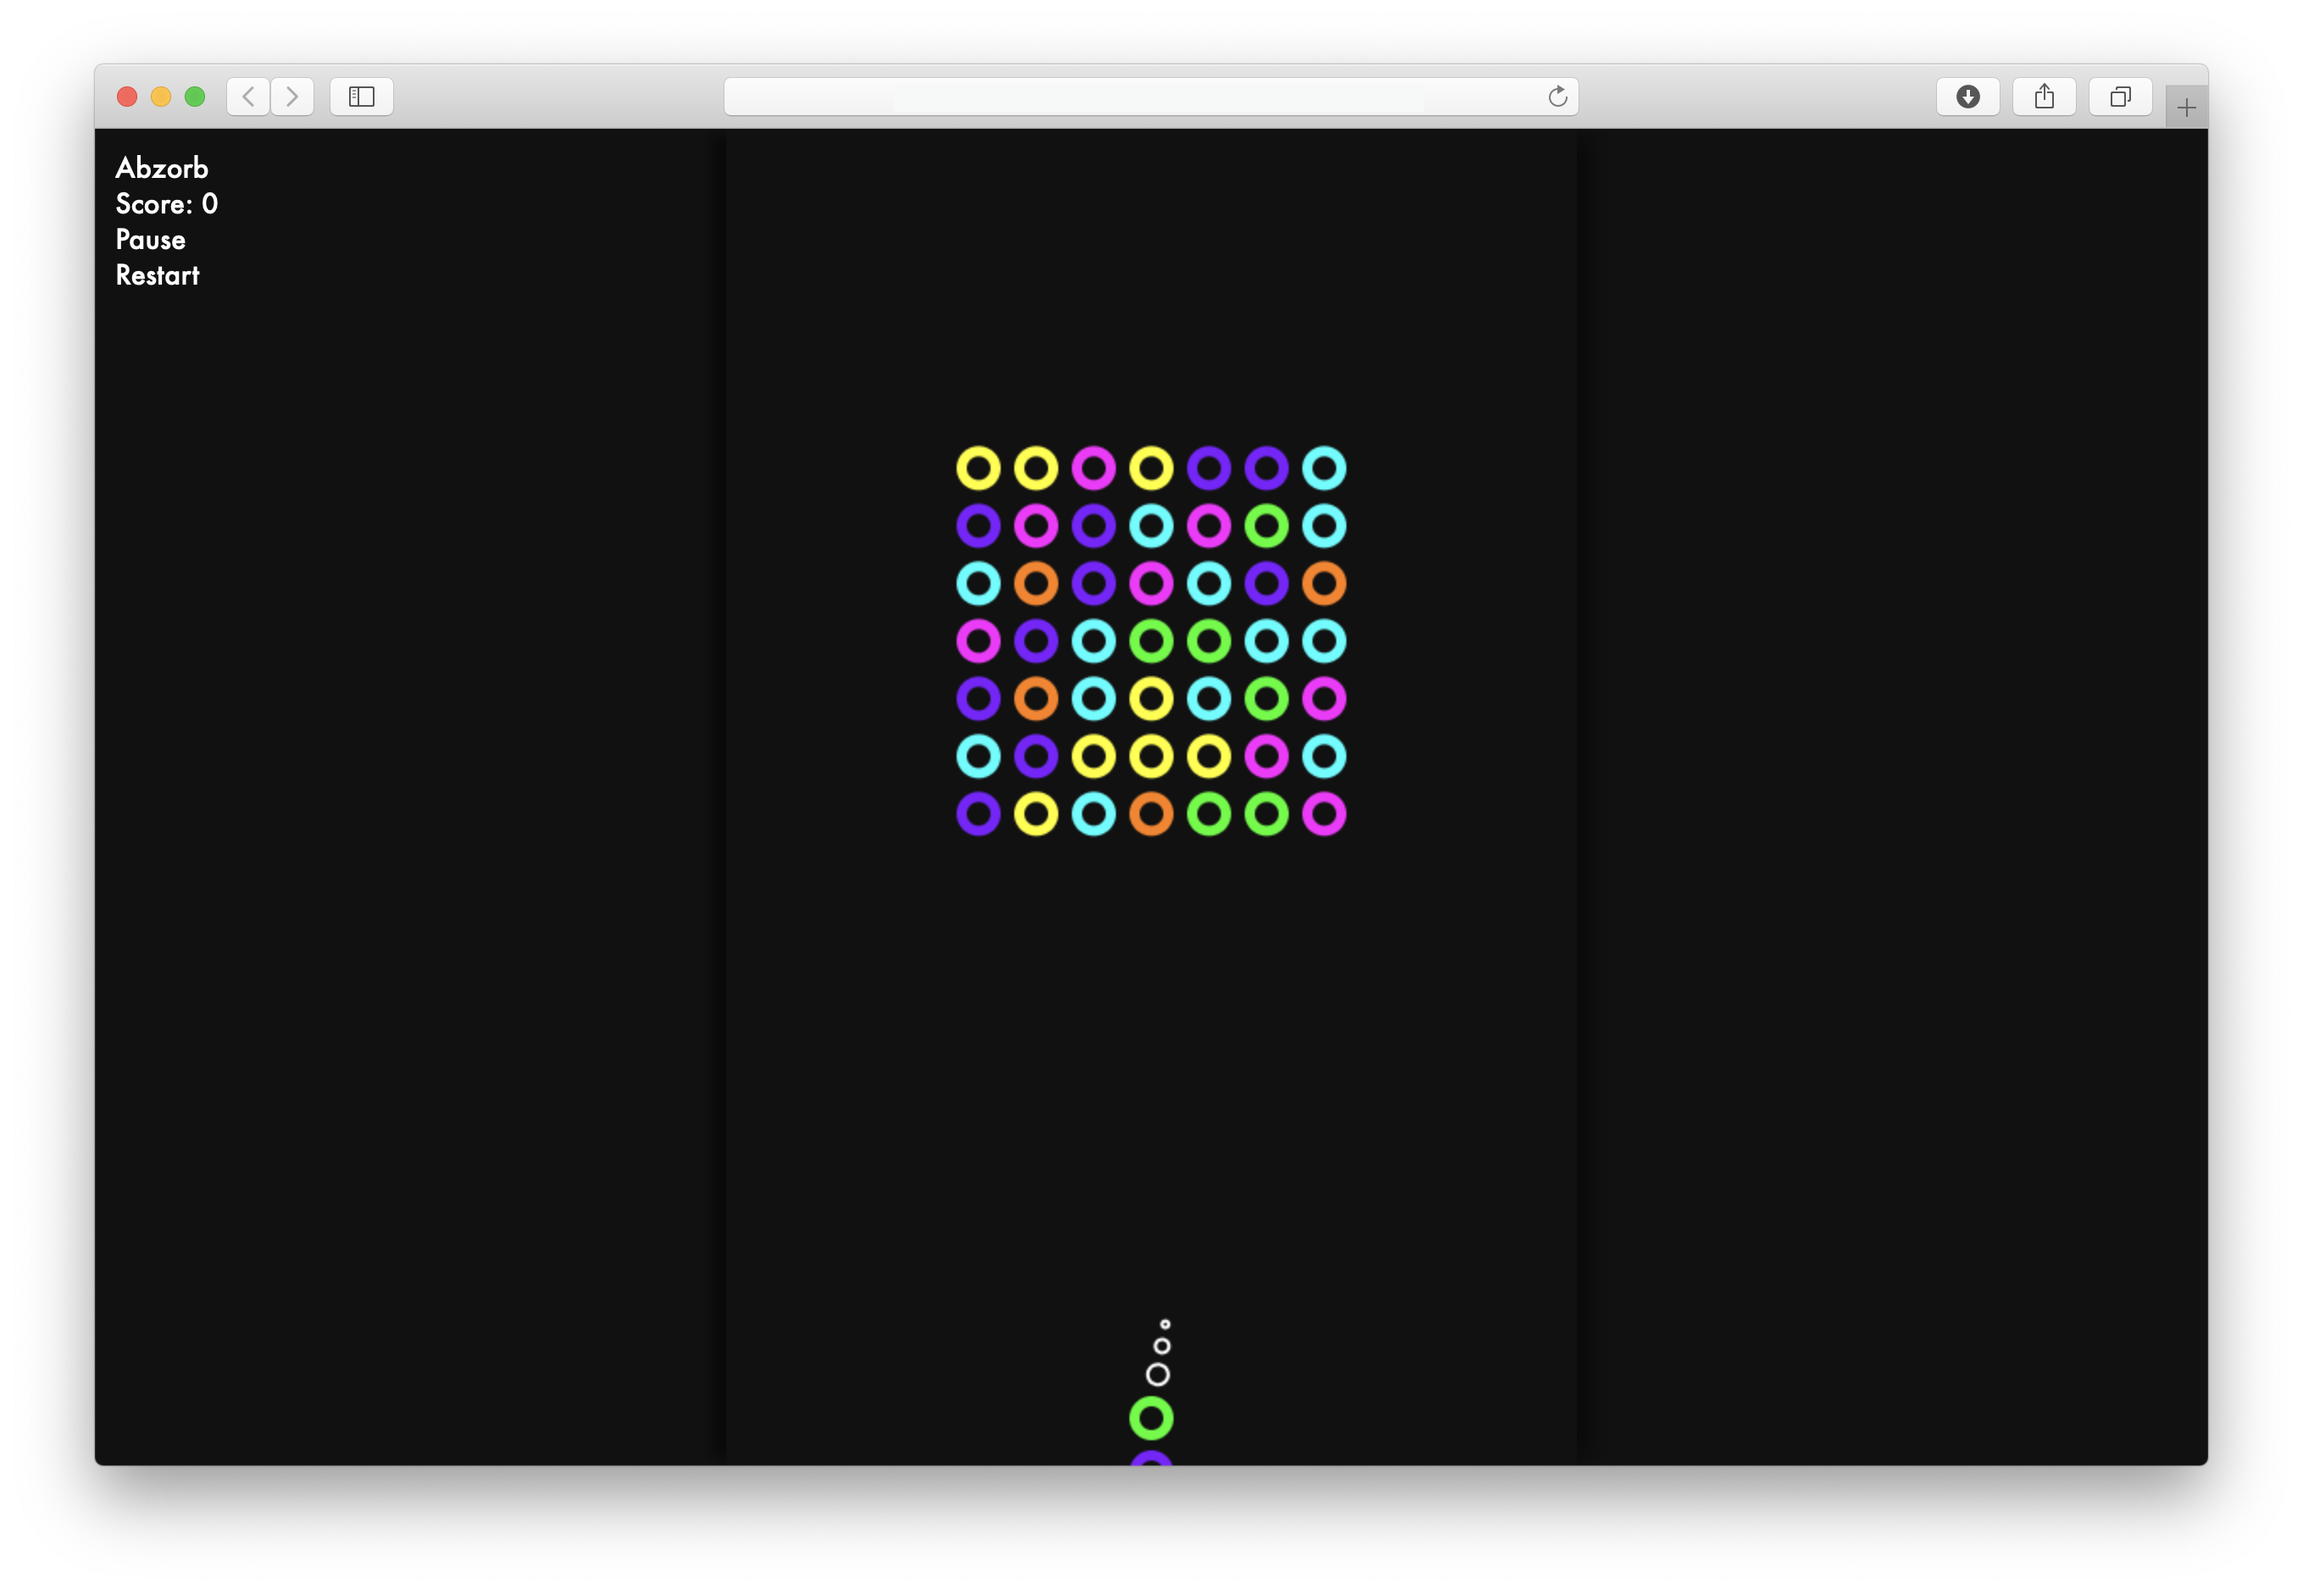
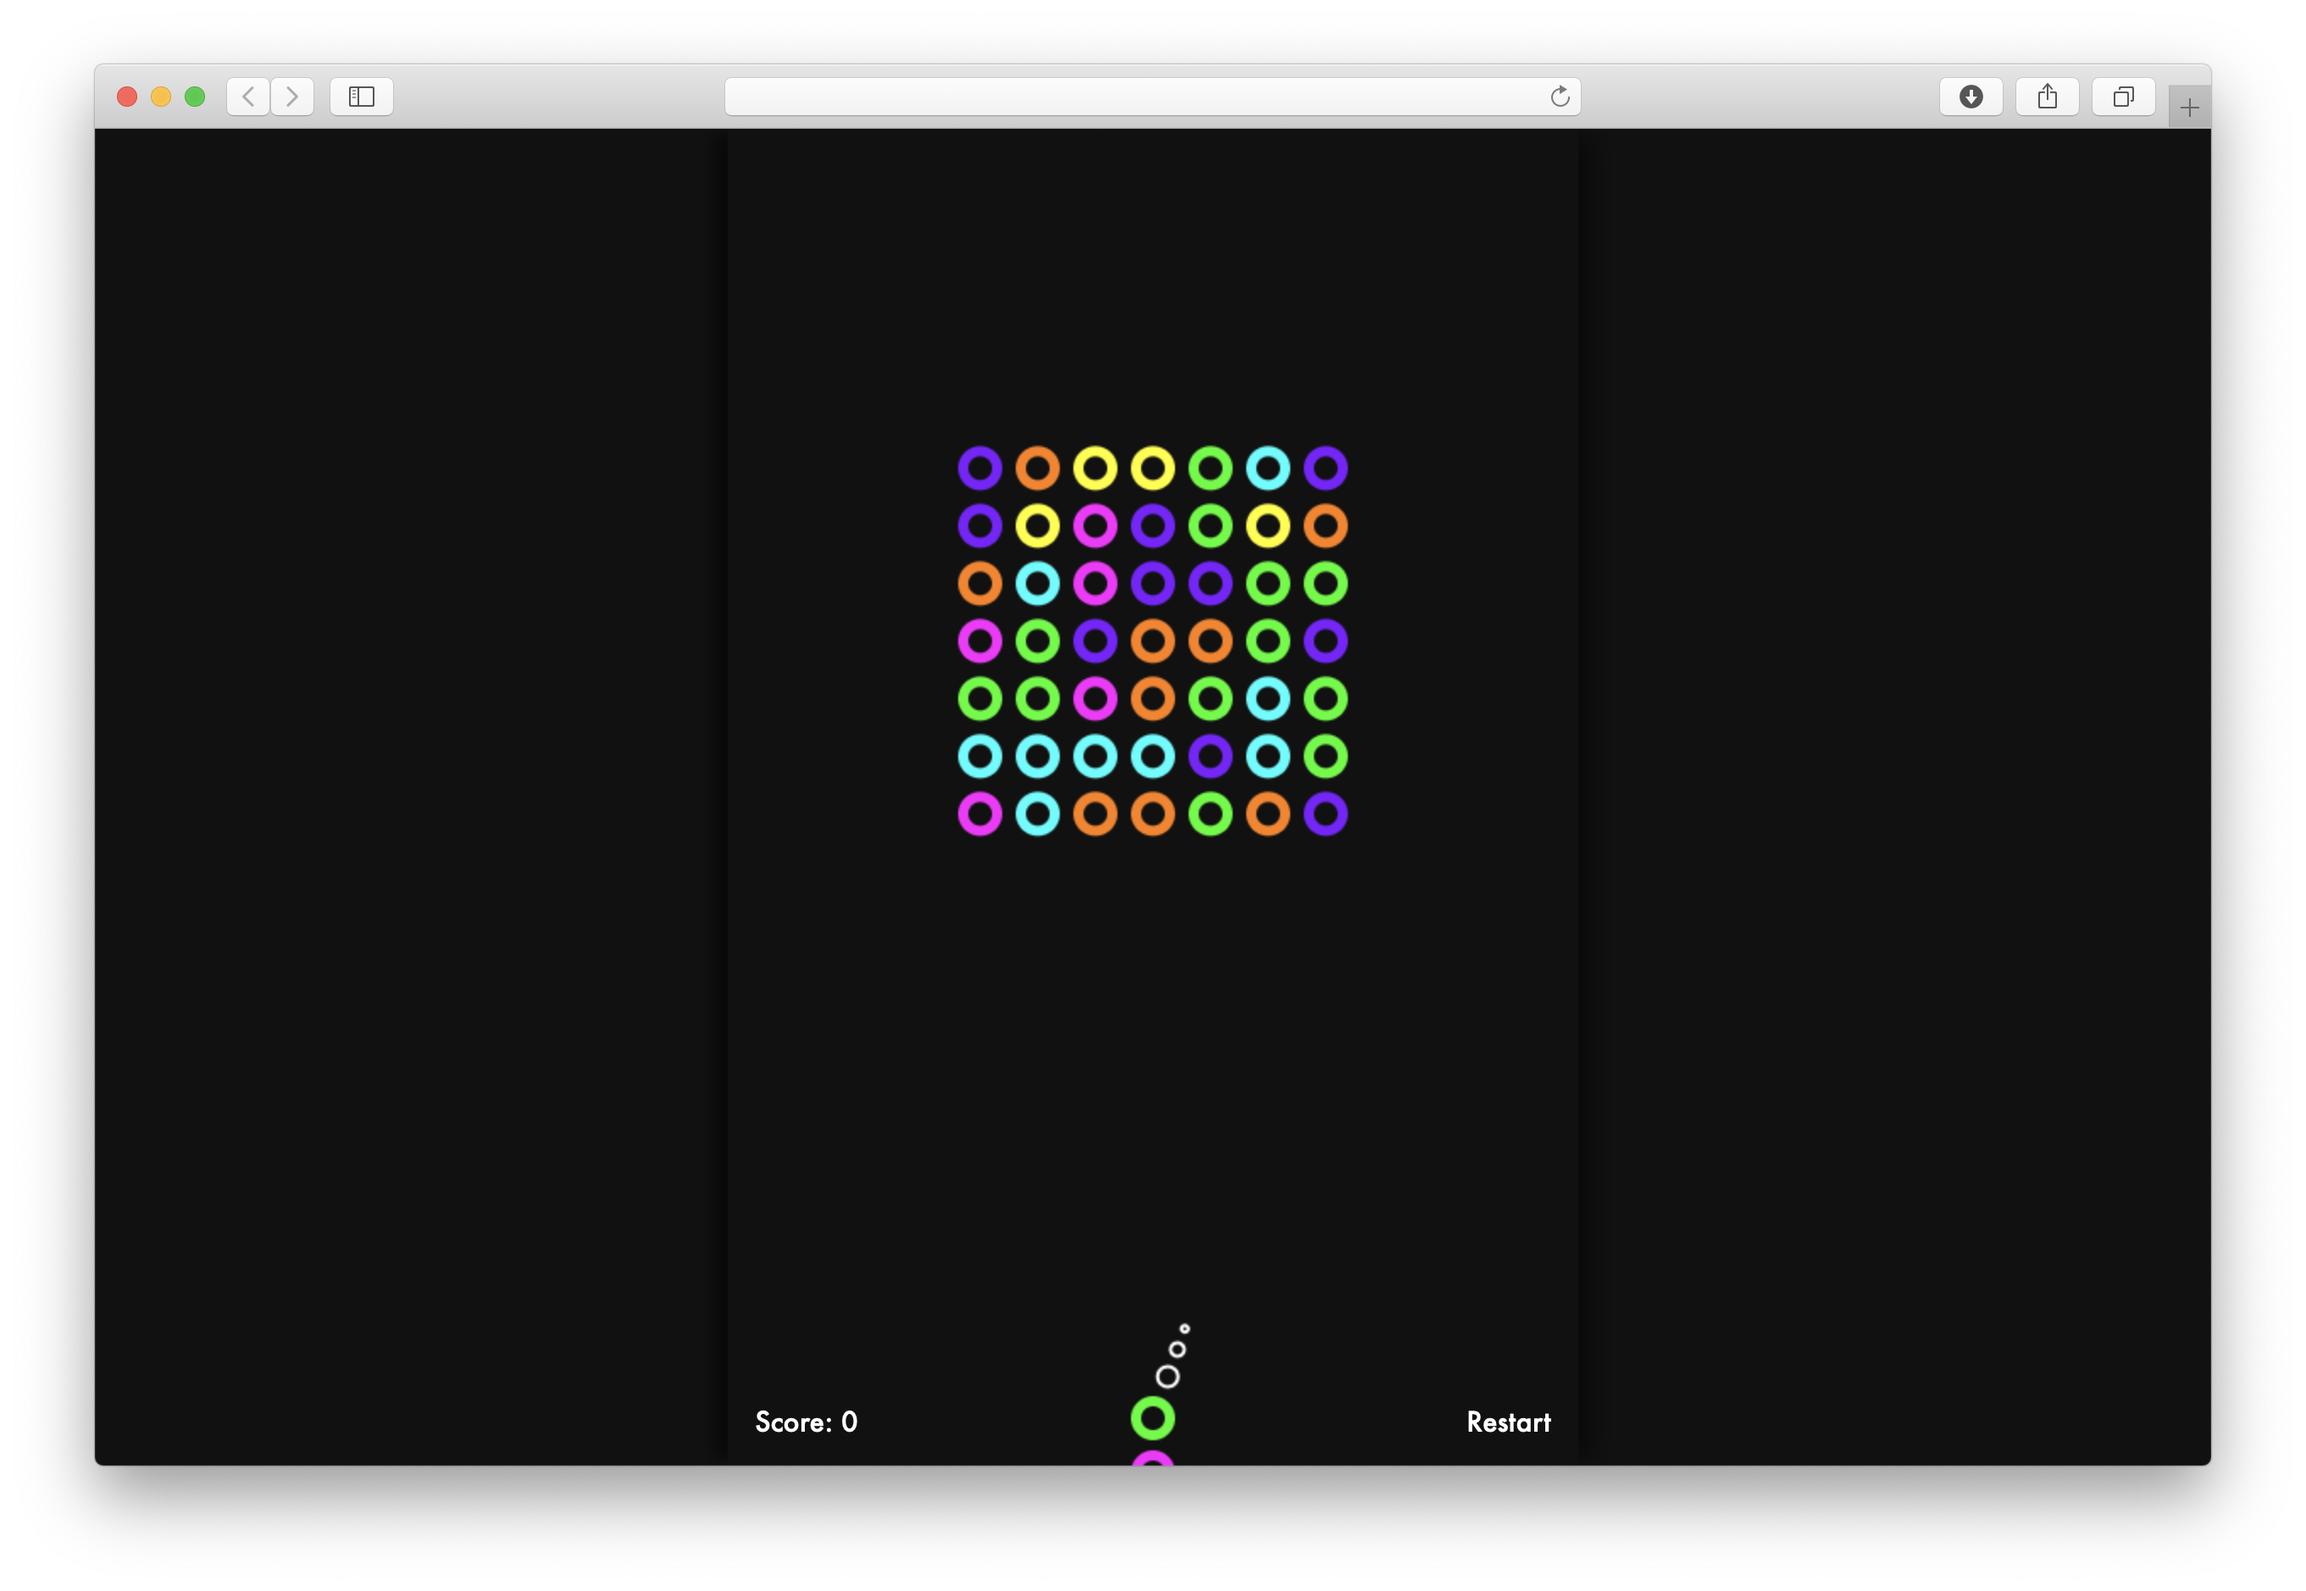
Add files via upload

diff --git a/abzorb.html b/abzorb.html
@@ -1,8 +1,11 @@
 <!DOCTYPE html>
 <html>
 <head>
+	<meta name="robots" content="nofollow">   
     <meta http-equiv="Content-Type" content="text/html; charset=utf-8">
-    <title>Abzorb : HTML5</title>
+    <meta name="viewport" content="width=device-width, initial-scale=1" />
+    
+	<title>Abzorb : HTML5</title>
     <style type="text/css">
     	* {
     		padding: 0;
@@ -11,6 +14,7 @@
     	html, body {
     		background: #111111;
     		font-family: 'Futura', sans-serif;
+    		color: #FFFFFF;
     		/*font-size: 10pt;*/
     	}
     	div#wrapper {			
@@ -20,17 +24,24 @@
     		margin: 0 auto;
     		position: relative;
     	}
+    	div#alert {
+    		display: none;
+    		position: absolute;
+    		width: 100%;
+    		top: 16px;
+    		left: 16px;
+    		/*text-align: center;
+    		/*font-size: 16pt;*/
+    	}
+    	div.info {
+    		position: absolute;
+    		width: 100%;
+    		bottom: 0;
+    	}
     	canvas {
     		background: #111111;
     		display: block;
     		box-shadow: 12px 0 15px -4px rgba(0, 0, 0, 0.5), -12px 0 8px -4px rgba(0, 0, 0, 0.5);
-    	}
-    	div.menu {
-    		position: fixed;
-    		top: 0;
-    		left: 0;
-    		color: #FFFFFF;
-    		padding: 12px;
     	}
     	a:link, a:visited {
     		color: #FFFFFF;
@@ -45,20 +56,14 @@
 <body>
 
 <div id="wrapper">
+	<div id="alert">
+		Game over!
+	</div>
+	<div class="info">
+		<p style="float:left; margin: 16px;" id="scoreLabel">Score: 0</p>
+		<a style="float:right; margin: 16px;" id="restartButton" href="javascript:restartGame();">Restart</a>
+	</div>
 	<canvas id="myCanvas"></canvas>
-</div>
-
-<div class="menu">
-	<p>Abzorb</p>
-	<p id="scoreLabel">Score: 0</p>
-	
-	<a id="pauseButton" href="javascript:pauseClicked();">Pause</a>
-	<br />
-	<a id="restartButton" href="javascript:restartGame();">Restart</a>
-	<!--
-	<br />
-	<a id="helpButton" href="javascript:helpClicked();">Help</a>
-	-->
 </div>
 
 <script>
@@ -71,6 +76,7 @@
 	var rPoint = [0, 0]; // rotation point
 
 	var isPaused = false;
+	var gameOver = false;
 	var score = 0;
 
 	// ORBS
@@ -113,6 +119,7 @@
 			this.status = status;
 			this.sameColor = false;
 			this.opacity = 1;
+			this.dead = false;
 		}
 		moveSelf() {
 			if (this.status) {
@@ -316,6 +323,7 @@
 	function gameLogic() {
 
 		var orbsLeft = 0;
+		var deadOrbs = [];
 
 		for (var c=0; c<orbColumnCount; c++) {
 			for (var r=0; r<orbRowCount; r++) {
@@ -358,27 +366,31 @@
 							if (!((coord[0] == c) && (coord[1] == r))) {
 								if (isTouching(coord[0],coord[1])) {
 									numTouching++;
-									// break; // only need to find one more
+									// break; // only need to find one more?
 								}
 							}
 						});
 					}
 
-					// if we still don't have two touching... GAME OVER
+					// if we still don't have two touching...
 					if (numTouching < 2) {
-						// console.log("GAME OVER!");
-						alert("Game over!");
-						// restartGame();
-						pauseClicked();
-						return;
+						deadOrbs.push(orbGridArray[c][r]);
+						// return;
 					}
 				}
 			}
 		}
 
+		// check for game over
+		if (deadOrbs.length > 0) {
+			deadOrbs.forEach(item => {
+				item.dead = true;
+			});
+			endGame();
+		}
+
 		// check to reset the game board... NEW LEVEL
 		if (orbsLeft == 0) {
-			// console.log("NEW LEVEL!");
 			newLevel();
 		}
 	}
@@ -405,18 +417,26 @@
 				orbGridArray[c][r].status = true;
 			}
 		}
-	}	
+	}
+
+	function endGame() {
+		gameOver = true;
+		// document.getElementById("alert").style.display = "inline";
+		document.getElementById("restartButton").innerHTML = "Game over!";
+	}
 
 	/* -------------- BUTTONS -------------- */
 
 	function pauseClicked() {
-		if (!isPaused) {
-			isPaused = true;
-			document.getElementById("pauseButton").innerHTML = "Unpause";
-		} else {
-			isPaused = false;
-			document.getElementById("pauseButton").innerHTML = "Pause";
-			draw();
+		if (!gameOver) {
+				if (!isPaused) {
+				isPaused = true;
+				document.getElementById("pauseButton").innerHTML = "Unpause";
+			} else {
+				isPaused = false;
+				document.getElementById("pauseButton").innerHTML = "Pause";
+				draw();
+			}
 		}
 	}
 
@@ -478,7 +498,7 @@
 
 	// click to launch orb
 	canvas.addEventListener('click', function(e){
-		if (!isPaused) {
+		if ((!gameOver) && (!isPaused)) {
 			launchOrb();
 		}
 	});
@@ -546,7 +566,11 @@
 			ctx.save();
 			ctx.beginPath();
 			ctx.arc(orb.x, orb.y, orbRadius, 0, Math.PI*2);
-			ctx.strokeStyle = orbColors[orb.color];
+			if (orb.dead) {
+				ctx.strokeStyle = "#444444";
+			} else {
+				ctx.strokeStyle = orbColors[orb.color];
+			}
 			ctx.lineWidth = orbLineWidth;
 			////ctx.shadowColor = this.color;
 			////ctx.shadowBlur = 12;
@@ -558,6 +582,7 @@
 	}
 
 	// TODO:
+	// - particle explosions
 	// - mobile screen functionality
 	// - optimize canvas drawing code
 	// - add more sophisticated game logic

diff --git a/README.md b/README.md
@@ -3,15 +3,27 @@ Abzorb
 
 ![Abzorb](https://raw.githubusercontent.com/luciensn/Abzorb/master/abzorb.png)
 
-A casual browser game written in JavaScript/HTML5. [Click here to play](https://luciensn.github.io/web/abzorb.html)
+Abzorb is a casual browser game written in JavaScript/HTML5.
+
+[PLAY](https://luciensn.github.io/web/abzorb.html)
+
 
 ### Gameplay
 
+Click anywhere on the canvas to launch an orb at the grid. When an orb makes contact with another orb, the stationary orb assumes the color of the moving orb. If three or more orbs of the same color are adjacent to one another, they all disappear and points are added to the score. When all the orbs disappear, the grid resets and play continues.
+
+If less than three orbs are left alone in a cluster, they can no longer be eliminated and that will trigger GAME OVER.
 
 ### Challenges
 
 
 ### Improvements
 
+* Add particle explosion effect when orbs disappear
+* Optimize for mobile screens + touch events
+* Optimize HTML5 Canvas drawing code snippets
+* Add more sophisticated game logic
+* Clean up/refactor code
 
-[Click here to play](https://luciensn.github.io/web/abzorb.html)
+
+[PLAY](https://luciensn.github.io/web/abzorb.html)
